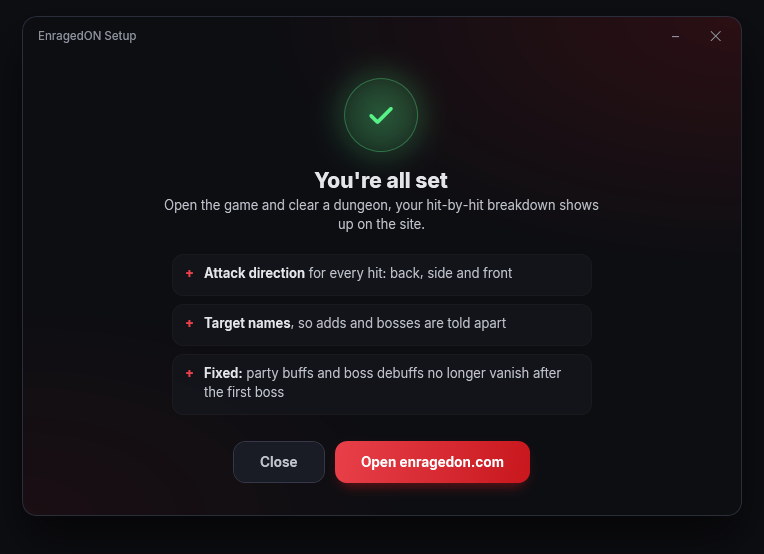
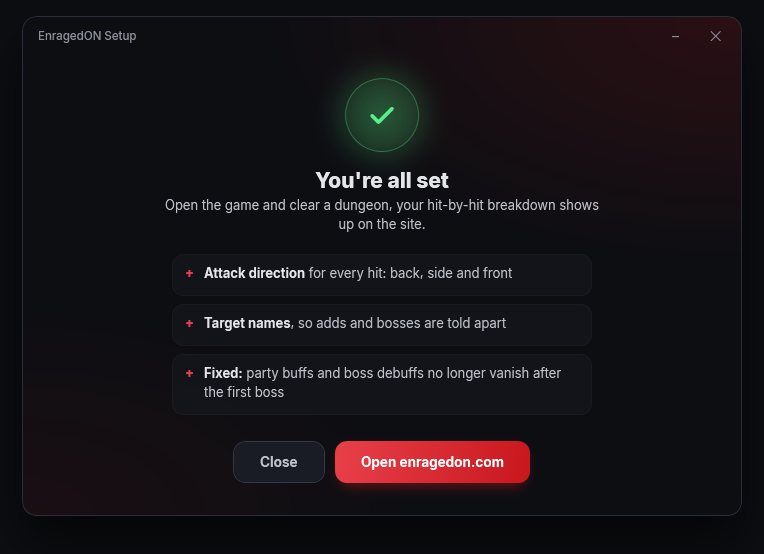
docs: refresh installer screenshots for v1.7

Changed region(s): [[0.2107, 0.3069, 0.6021, 0.4296], [0.4817, 0.1841, 0.5118, 0.2148]]

diff --git a/installer/MainWindow.xaml.cs b/installer/MainWindow.xaml.cs
@@ -479,7 +479,7 @@ public partial class MainWindow : Window
             new() { Folder = folder, Variant = v, State = st, InstalledVersion = ver, HasBackup = bak };
         string appData = Environment.GetFolderPath(Environment.SpecialFolder.ApplicationData);
         var cp = Fake(Path.Combine(appData, @"Crazy-eSports-ClassicPlus\mods\external\classicplus.shinra"), Variant.ClassicPlus, MeterState.Outdated, "1.5", true);
-        var tb = Fake(@"C:\Program Files (x86)\TeraToolbox Classic Plus\mods\ShinraMeter", Variant.Toolbox, MeterState.NotInstalled, null, false);
+        var tb = Fake(@"C:\Program Files (x86)\TeraToolbox\mods\ShinraMeter", Variant.Toolbox, MeterState.NotInstalled, null, false);
 
         void Snap(string name)
         {
